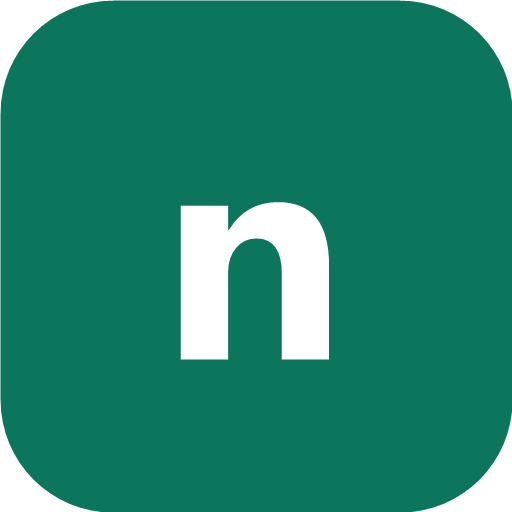
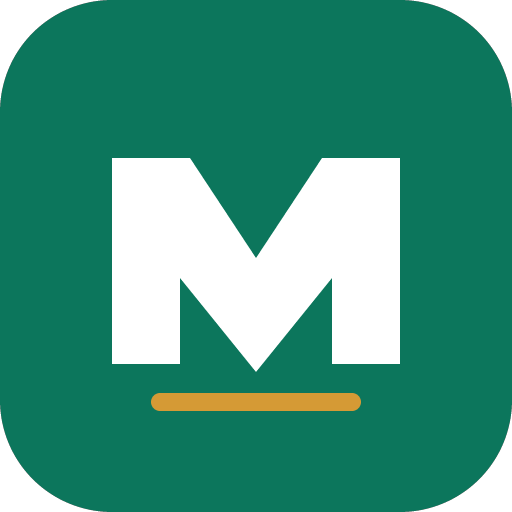
Renomme la marque en MACDIOS

diff --git a/frontend/src/contexte/LangueContext.jsx b/frontend/src/contexte/LangueContext.jsx
@@ -448,7 +448,7 @@ Object.assign(TEXTES.en, {
   "Épicerie et produits frais": "Groceries and fresh produce", "Boissons, cosmétique, électronique et textile": "Drinks, personal care, electronics and clothing", "Fermer le menu": "Close menu", "Ouvrir le menu": "Open menu",
   "Enregistrez vos ventes": "Record your sales", "Saisissez une vente en quelques secondes. Le stock se met à jour automatiquement.": "Record a sale in seconds. Stock updates automatically.", "Suivez votre stock": "Track your stock", "Voyez ce qu’il vous reste et repérez rapidement les produits à renouveler.": "See what remains and quickly spot products to restock.", "Gardez vos dettes en vue": "Keep track of debts", "Retrouvez le solde de chaque client et notez les remboursements reçus.": "View each customer’s balance and record repayments.", "Comprenez vos journées": "Understand your business", "Un tableau de bord clair résume vos ventes et les points à surveiller.": "A clear dashboard summarizes sales and items to monitor.",
   "Créez votre espace": "Set up your account", "Inscrivez votre boutique avec votre adresse email.": "Register your shop with your email address.", "Ajoutez vos produits": "Add your products", "Renseignez les articles et les quantités de votre stock.": "Enter your products and stock quantities.", "Suivez votre activité": "Track your activity", "Notez les ventes, les crédits et les paiements depuis votre téléphone.": "Record sales, credit and payments from your phone.",
-  "À qui s’adresse Nobi ?": "Who is Nobi for?", "Nobi est conçu pour les petits commerces qui veulent suivre simplement leurs ventes, leur stock et les crédits accordés aux clients.": "Nobi is designed for small businesses that want to track sales, stock and customer credit simply.", "Ai-je besoin d’un ordinateur ?": "Do I need a computer?", "Non. L’interface fonctionne sur téléphone Android et s’adapte aussi aux écrans d’ordinateur.": "No. The interface works on Android phones and adapts to computer screens too.", "Comment le stock est-il mis à jour ?": "How is stock updated?", "À chaque vente enregistrée, la quantité vendue est automatiquement retirée du stock.": "Each recorded sale automatically deducts the quantity sold from stock.", "Puis-je suivre les paiements de mes clients ?": "Can I track customer payments?", "Oui. Vous pouvez enregistrer un paiement et retrouver le solde calculé à partir des dettes et paiements du client.": "Yes. Record payments and see each balance calculated from debts and payments.",
+  "À qui s’adresse l’application ?": "Who is this app for?", "Cette application est conçue pour les petits commerces qui veulent suivre simplement leurs ventes, leur stock et les crédits accordés aux clients.": "This app is designed for small businesses that want to track sales, stock and customer credit simply.", "Ai-je besoin d’un ordinateur ?": "Do I need a computer?", "Non. L’interface fonctionne sur téléphone Android et s’adapte aussi aux écrans d’ordinateur.": "No. The interface works on Android phones and adapts to computer screens too.", "Comment le stock est-il mis à jour ?": "How is stock updated?", "À chaque vente enregistrée, la quantité vendue est automatiquement retirée du stock.": "Each recorded sale automatically deducts the quantity sold from stock.", "Puis-je suivre les paiements de mes clients ?": "Can I track customer payments?", "Oui. Vous pouvez enregistrer un paiement et retrouver le solde calculé à partir des dettes et paiements du client.": "Yes. Record payments and see each balance calculated from debts and payments.",
   "Offre commerçant": "Merchant plan", "Tarif temporairement indisponible": "Price temporarily unavailable", "Chargement du tarif…": "Loading price…", "Aperçu illustratif · données fictives": "Illustration · sample data", "Les outils essentiels sont réunis dans le même espace": "The essential tools are together in one place",
 });
 Object.assign(TEXTES.es, {
@@ -457,7 +457,7 @@ Object.assign(TEXTES.es, {
   "Épicerie et produits frais": "Comestibles y productos frescos", "Boissons, cosmétique, électronique et textile": "Bebidas, cosmética, electrónica y textil", "Fermer le menu": "Cerrar el menú", "Ouvrir le menu": "Abrir el menú",
   "Enregistrez vos ventes": "Registra tus ventas", "Saisissez une vente en quelques secondes. Le stock se met à jour automatiquement.": "Registra una venta en segundos. El inventario se actualiza automáticamente.", "Suivez votre stock": "Controla tu inventario", "Voyez ce qu’il vous reste et repérez rapidement les produits à renouveler.": "Consulta lo que queda y detecta los productos que debes reponer.", "Gardez vos dettes en vue": "Controla las deudas", "Retrouvez le solde de chaque client et notez les remboursements reçus.": "Consulta el saldo de cada cliente y registra los pagos recibidos.", "Comprenez vos journées": "Comprende tu actividad", "Un tableau de bord clair résume vos ventes et les points à surveiller.": "Un panel claro resume tus ventas y los aspectos que debes vigilar.",
   "Créez votre espace": "Crea tu espacio", "Inscrivez votre boutique avec votre adresse email.": "Registra tu tienda con tu correo electrónico.", "Ajoutez vos produits": "Añade tus productos", "Renseignez les articles et les quantités de votre stock.": "Introduce los artículos y las cantidades de tu inventario.", "Suivez votre activité": "Controla tu actividad", "Notez les ventes, les crédits et les paiements depuis votre téléphone.": "Registra ventas, créditos y pagos desde tu teléfono.",
-  "À qui s’adresse Nobi ?": "¿Para quién es Nobi?", "Nobi est conçu pour les petits commerces qui veulent suivre simplement leurs ventes, leur stock et les crédits accordés aux clients.": "Nobi está pensado para pequeños comercios que quieren controlar ventas, inventario y créditos de clientes.", "Ai-je besoin d’un ordinateur ?": "¿Necesito un ordenador?", "Non. L’interface fonctionne sur téléphone Android et s’adapte aussi aux écrans d’ordinateur.": "No. Funciona en teléfonos Android y también se adapta a pantallas de ordenador.", "Comment le stock est-il mis à jour ?": "¿Cómo se actualiza el inventario?", "À chaque vente enregistrée, la quantité vendue est automatiquement retirée du stock.": "Cada venta registrada descuenta automáticamente las unidades vendidas.", "Puis-je suivre les paiements de mes clients ?": "¿Puedo controlar los pagos de mis clientes?", "Oui. Vous pouvez enregistrer un paiement et retrouver le solde calculé à partir des dettes et paiements du client.": "Sí. Puedes registrar pagos y consultar el saldo calculado a partir de las deudas y los pagos.",
+  "À qui s’adresse l’application ?": "¿Para quién es esta aplicación?", "Cette application est conçue pour les petits commerces qui veulent suivre simplement leurs ventes, leur stock et les crédits accordés aux clients.": "Esta aplicación está pensada para pequeños comercios que quieren controlar ventas, inventario y créditos de clientes.", "Ai-je besoin d’un ordinateur ?": "¿Necesito un ordenador?", "Non. L’interface fonctionne sur téléphone Android et s’adapte aussi aux écrans d’ordinateur.": "No. Funciona en teléfonos Android y también se adapta a pantallas de ordenador.", "Comment le stock est-il mis à jour ?": "¿Cómo se actualiza el inventario?", "À chaque vente enregistrée, la quantité vendue est automatiquement retirée du stock.": "Cada venta registrada descuenta automáticamente las unidades vendidas.", "Puis-je suivre les paiements de mes clients ?": "¿Puedo controlar los pagos de mis clientes?", "Oui. Vous pouvez enregistrer un paiement et retrouver le solde calculé à partir des dettes et paiements du client.": "Sí. Puedes registrar pagos y consultar el saldo calculado a partir de las deudas y los pagos.",
   "Offre commerçant": "Plan para comercios", "Tarif temporairement indisponible": "Precio temporalmente no disponible", "Chargement du tarif…": "Cargando precio…", "Les outils essentiels sont réunis dans le même espace": "Las herramientas esenciales están reunidas en un solo espacio",
 });
 Object.assign(TEXTES.pt, {
@@ -466,7 +466,7 @@ Object.assign(TEXTES.pt, {
   "Épicerie et produits frais": "Mercearia e produtos frescos", "Boissons, cosmétique, électronique et textile": "Bebidas, cosméticos, eletrônicos e têxteis", "Fermer le menu": "Fechar o menu", "Ouvrir le menu": "Abrir o menu",
   "Enregistrez vos ventes": "Registe as suas vendas", "Saisissez une vente en quelques secondes. Le stock se met à jour automatiquement.": "Registe uma venda em segundos. O stock é atualizado automaticamente.", "Suivez votre stock": "Acompanhe o stock", "Voyez ce qu’il vous reste et repérez rapidement les produits à renouveler.": "Veja o que resta e identifique rapidamente os produtos a repor.", "Gardez vos dettes en vue": "Acompanhe as dívidas", "Retrouvez le solde de chaque client et notez les remboursements reçus.": "Consulte o saldo de cada cliente e registe os pagamentos recebidos.", "Comprenez vos journées": "Compreenda a sua atividade", "Un tableau de bord clair résume vos ventes et les points à surveiller.": "Um painel claro resume as vendas e os pontos a acompanhar.",
   "Créez votre espace": "Crie o seu espaço", "Inscrivez votre boutique avec votre adresse email.": "Registe a sua loja com o seu email.", "Ajoutez vos produits": "Adicione os seus produtos", "Renseignez les articles et les quantités de votre stock.": "Indique os artigos e as quantidades em stock.", "Suivez votre activité": "Acompanhe a sua atividade", "Notez les ventes, les crédits et les paiements depuis votre téléphone.": "Registe vendas, créditos e pagamentos no telemóvel.",
-  "À qui s’adresse Nobi ?": "Para quem é a Nobi?", "Nobi est conçu pour les petits commerces qui veulent suivre simplement leurs ventes, leur stock et les crédits accordés aux clients.": "A Nobi foi criada para pequenos comerciantes acompanharem vendas, stock e crédito a clientes.", "Ai-je besoin d’un ordinateur ?": "Preciso de um computador?", "Non. L’interface fonctionne sur téléphone Android et s’adapte aussi aux écrans d’ordinateur.": "Não. Funciona em telemóveis Android e também se adapta a computadores.", "Comment le stock est-il mis à jour ?": "Como o stock é atualizado?", "À chaque vente enregistrée, la quantité vendue est automatiquement retirée du stock.": "Cada venda registada desconta automaticamente a quantidade vendida do stock.", "Puis-je suivre les paiements de mes clients ?": "Posso acompanhar os pagamentos dos clientes?", "Oui. Vous pouvez enregistrer un paiement et retrouver le solde calculé à partir des dettes et paiements du client.": "Sim. Pode registar pagamentos e consultar o saldo calculado a partir das dívidas e pagamentos.",
+  "À qui s’adresse l’application ?": "Para quem é esta aplicação?", "Cette application est conçue pour les petits commerces qui veulent suivre simplement leurs ventes, leur stock et les crédits accordés aux clients.": "Esta aplicação foi criada para pequenos comerciantes acompanharem vendas, stock e crédito a clientes.", "Ai-je besoin d’un ordinateur ?": "Preciso de um computador?", "Non. L’interface fonctionne sur téléphone Android et s’adapte aussi aux écrans d’ordinateur.": "Não. Funciona em telemóveis Android e também se adapta a computadores.", "Comment le stock est-il mis à jour ?": "Como o stock é atualizado?", "À chaque vente enregistrée, la quantité vendue est automatiquement retirée du stock.": "Cada venda registada desconta automaticamente a quantidade vendida do stock.", "Puis-je suivre les paiements de mes clients ?": "Posso acompanhar os pagamentos dos clientes?", "Oui. Vous pouvez enregistrer un paiement et retrouver le solde calculé à partir des dettes et paiements du client.": "Sim. Pode registar pagamentos e consultar o saldo calculado a partir das dívidas e pagamentos.",
   "Offre commerçant": "Plano para comerciantes", "Tarif temporairement indisponible": "Preço temporariamente indisponível", "Chargement du tarif…": "A carregar o preço…", "Les outils essentiels sont réunis dans le même espace": "As ferramentas essenciais estão reunidas no mesmo espaço",
 });
 Object.assign(TEXTES.ar, {
@@ -475,7 +475,7 @@ Object.assign(TEXTES.ar, {
   "Épicerie et produits frais": "المواد الغذائية والمنتجات الطازجة", "Boissons, cosmétique, électronique et textile": "المشروبات والتجميل والإلكترونيات والمنسوجات", "Fermer le menu": "إغلاق القائمة", "Ouvrir le menu": "فتح القائمة",
   "Enregistrez vos ventes": "سجّل مبيعاتك", "Saisissez une vente en quelques secondes. Le stock se met à jour automatiquement.": "سجّل عملية بيع في ثوانٍ، ويتم تحديث المخزون تلقائيًا.", "Suivez votre stock": "تابع مخزونك", "Voyez ce qu’il vous reste et repérez rapidement les produits à renouveler.": "اطّلع على الكميات المتبقية وحدد المنتجات التي تحتاج إلى إعادة التزويد.", "Gardez vos dettes en vue": "تابع الديون", "Retrouvez le solde de chaque client et notez les remboursements reçus.": "اطّلع على رصيد كل عميل وسجّل المبالغ المسددة.", "Comprenez vos journées": "افهم نشاطك اليومي", "Un tableau de bord clair résume vos ventes et les points à surveiller.": "تلخص لوحة واضحة مبيعاتك والنقاط التي تحتاج إلى متابعة.",
   "Créez votre espace": "أنشئ حسابك", "Inscrivez votre boutique avec votre adresse email.": "سجّل متجرك باستخدام بريدك الإلكتروني.", "Ajoutez vos produits": "أضف منتجاتك", "Renseignez les articles et les quantités de votre stock.": "أدخل المنتجات والكميات المتوفرة في المخزون.", "Suivez votre activité": "تابع نشاطك", "Notez les ventes, les crédits et les paiements depuis votre téléphone.": "سجّل المبيعات والديون والمدفوعات من هاتفك.",
-  "À qui s’adresse Nobi ?": "لمن صُممت نوبي؟", "Nobi est conçu pour les petits commerces qui veulent suivre simplement leurs ventes, leur stock et les crédits accordés aux clients.": "صُممت نوبي للمتاجر الصغيرة التي تريد متابعة المبيعات والمخزون وديون العملاء بسهولة.", "Ai-je besoin d’un ordinateur ?": "هل أحتاج إلى حاسوب؟", "Non. L’interface fonctionne sur téléphone Android et s’adapte aussi aux écrans d’ordinateur.": "لا. تعمل الواجهة على هواتف أندرويد وتناسب شاشات الحاسوب أيضًا.", "Comment le stock est-il mis à jour ?": "كيف يتم تحديث المخزون؟", "À chaque vente enregistrée, la quantité vendue est automatiquement retirée du stock.": "يتم خصم الكمية المباعة تلقائيًا من المخزون عند تسجيل البيع.", "Puis-je suivre les paiements de mes clients ?": "هل يمكنني متابعة مدفوعات العملاء؟", "Oui. Vous pouvez enregistrer un paiement et retrouver le solde calculé à partir des dettes et paiements du client.": "نعم. يمكنك تسجيل المدفوعات والاطلاع على الرصيد المحسوب من الديون والمدفوعات.",
+  "À qui s’adresse l’application ?": "لمن صُمم هذا التطبيق؟", "Cette application est conçue pour les petits commerces qui veulent suivre simplement leurs ventes, leur stock et les crédits accordés aux clients.": "صُمم هذا التطبيق للمتاجر الصغيرة التي تريد متابعة المبيعات والمخزون وديون العملاء بسهولة.", "Ai-je besoin d’un ordinateur ?": "هل أحتاج إلى حاسوب؟", "Non. L’interface fonctionne sur téléphone Android et s’adapte aussi aux écrans d’ordinateur.": "لا. تعمل الواجهة على هواتف أندرويد وتناسب شاشات الحاسوب أيضًا.", "Comment le stock est-il mis à jour ?": "كيف يتم تحديث المخزون؟", "À chaque vente enregistrée, la quantité vendue est automatiquement retirée du stock.": "يتم خصم الكمية المباعة تلقائيًا من المخزون عند تسجيل البيع.", "Puis-je suivre les paiements de mes clients ?": "هل يمكنني متابعة مدفوعات العملاء؟", "Oui. Vous pouvez enregistrer un paiement et retrouver le solde calculé à partir des dettes et paiements du client.": "نعم. يمكنك تسجيل المدفوعات والاطلاع على الرصيد المحسوب من الديون والمدفوعات.",
   "Offre commerçant": "خطة التاجر", "Tarif temporairement indisponible": "السعر غير متاح مؤقتًا", "Chargement du tarif…": "جارٍ تحميل السعر…", "Les outils essentiels sont réunis dans le même espace": "تجتمع الأدوات الأساسية في مساحة واحدة",
 });
 
@@ -503,13 +503,13 @@ const TRADUCTIONS_ECRANS = [
   ["Le solde reflète les dettes moins les paiements enregistrés.", "The balance is debts minus recorded payments.", "El saldo es el total de deudas menos los pagos registrados.", "O saldo corresponde às dívidas menos os pagamentos registados.", "الرصيد هو مجموع الديون ناقص المدفوعات المسجلة."], ["Tout votre commerce à portée de main.", "Your whole business at your fingertips.", "Todo tu negocio al alcance de la mano.", "Todo o seu negócio à distância de um toque.", "نشاطك التجاري كله بين يديك."],
   ["Gardez vos ventes, votre stock et vos comptes clients bien organisés, même quand la journée s’accélère.", "Keep sales, stock and customer accounts organized, even on your busiest days.", "Organiza ventas, inventario y cuentas de clientes, incluso en los días más ajetreados.", "Mantenha as vendas, o stock e as contas de clientes organizados, mesmo nos dias mais corridos.", "نظّم المبيعات والمخزون وحسابات العملاء حتى في أكثر الأيام ازدحامًا."],
   ["Simple à utiliser sur téléphone", "Easy to use on a phone", "Fácil de usar en el teléfono", "Fácil de usar no telemóvel", "سهل الاستخدام على الهاتف"], ["Vos données restent dans votre espace", "Your data stays in your account", "Tus datos permanecen en tu espacio", "Os seus dados permanecem na sua área", "تبقى بياناتك في مساحتك الخاصة"], ["Un aperçu clair de votre activité", "A clear overview of your business", "Una visión clara de tu actividad", "Uma visão clara da sua atividade", "نظرة واضحة على نشاطك"],
-  ["Ravi de vous revoir", "Welcome back", "Nos alegra verte de nuevo", "É bom ter você de volta", "سعداء بعودتك"], ["Vous débutez ?", "New to Nobi?", "¿Acabas de llegar?", "Está a começar?", "هل أنت جديد هنا؟"], ["Votre commerce, en confiance", "Your business, in good hands", "Tu negocio, con confianza", "O seu negócio, com confiança", "نشاطك التجاري في أيدٍ موثوقة"],
+  ["Ravi de vous revoir", "Welcome back", "Nos alegra verte de nuevo", "É bom ter você de volta", "سعداء بعودتك"], ["Vous débutez ?", "New here?", "¿Acabas de llegar?", "Está a começar?", "هل أنت جديد هنا؟"], ["Votre commerce, en confiance", "Your business, in good hands", "Tu negocio, con confianza", "O seu negócio, com confiança", "نشاطك التجاري في أيدٍ موثوقة"],
   ["Tout votre commerce à portée de main.", "Your whole business at your fingertips.", "Todo tu negocio al alcance de la mano.", "Todo o seu negócio à distância de um toque.", "نشاطك التجاري كله بين يديك."], ["Votre espace professionnel", "Your business workspace", "Tu espacio profesional", "O seu espaço profissional", "مساحتك المهنية"], ["Interface pensée pour le mobile", "Designed for mobile", "Interfaz diseñada para móviles", "Interface pensada para telemóveis", "واجهة مصممة للهاتف"],
   ["Vos produits et vos clients au même endroit", "Products and customers in one place", "Tus productos y clientes en un solo lugar", "Os seus produtos e clientes num só lugar", "منتجاتك وعملاؤك في مكان واحد"], ["Votre espace professionnel", "Your business workspace", "Tu espacio profesional", "O seu espaço profissional", "مساحتك المهنية"],
   ["Un meilleur suivi, dès le premier jour.", "Better tracking from day one.", "Un mejor control desde el primer día.", "Mais acompanhamento desde o primeiro dia.", "متابعة أفضل منذ اليوم الأول."], ["Créez votre espace et rassemblez les informations utiles à la gestion de votre boutique.", "Set up your account and bring together the information you need to manage your shop.", "Crea tu espacio y reúne la información necesaria para gestionar tu tienda.", "Crie o seu espaço e reúna as informações necessárias para gerir a sua loja.", "أنشئ مساحتك واجمع المعلومات اللازمة لإدارة متجرك."],
   ["Vous avez déjà un compte ?", "Already have an account?", "¿Ya tienes una cuenta?", "Já tem uma conta?", "هل لديك حساب بالفعل؟"], ["Gérez le nom et les coordonnées affichés dans votre espace et sur vos documents PDF.", "Manage the name and contact details shown in your workspace and PDF documents.", "Gestiona el nombre y los datos de contacto que aparecen en tu espacio y en los PDF.", "Gira o nome e os contactos apresentados na sua área e nos documentos PDF.", "أدر الاسم وبيانات الاتصال التي تظهر في مساحتك ومستندات PDF."],
   ["Cette action efface votre compte, vos données métier et votre historique d'activité. Elle est définitive.", "This permanently deletes your account, business data and activity history.", "Esta acción elimina definitivamente tu cuenta, los datos del negocio y el historial de actividad.", "Esta ação elimina permanentemente a conta, os dados comerciais e o histórico de atividade.", "سيؤدي هذا الإجراء إلى حذف حسابك وبيانات النشاط وسجل العمليات نهائيًا."],
-  ["Une question sur Nobi, ou simplement besoin d’aide ? Écrivez-nous, nous vous répondrons dès que possible.", "A question about Nobi or need help? Write to us and we’ll reply as soon as possible.", "¿Tienes una pregunta sobre Nobi o necesitas ayuda? Escríbenos y te responderemos lo antes posible.", "Tem uma pergunta sobre a Nobi ou precisa de ajuda? Escreva-nos e responderemos assim que possível.", "هل لديك سؤال عن نوبي أو تحتاج إلى مساعدة؟ راسلنا وسنرد عليك في أقرب وقت."],
+  ["Une question ? Écrivez-nous, nous vous répondrons.", "A question about the app or need help? Write to us and we’ll reply as soon as possible.", "¿Tienes una pregunta sobre la aplicación o necesitas ayuda? Escríbenos y te responderemos lo antes posible.", "Tem uma pergunta sobre a aplicação ou precisa de ajuda? Escreva-nos e responderemos assim que possível.", "هل لديك سؤال عن التطبيق أو تحتاج إلى مساعدة؟ راسلنا وسنرد عليك في أقرب وقت."],
   ["Envoyer le message", "Send message", "Enviar mensaje", "Enviar mensagem", "إرسال الرسالة"], ["Vous pouvez aussi nous écrire directement par email ou WhatsApp.", "You can also contact us directly by email or WhatsApp.", "También puedes escribirnos directamente por correo o WhatsApp.", "Também pode contactar-nos diretamente por email ou WhatsApp.", "يمكنك مراسلتنا مباشرة عبر البريد الإلكتروني أو واتساب."],
   ["Connexion administrateur", "Admin sign in", "Acceso de administración", "Acesso de administração", "تسجيل دخول الإدارة"], ["Accès réservé aux comptes d’administration autorisés.", "Access is restricted to authorized admin accounts.", "Acceso reservado a las cuentas de administración autorizadas.", "Acesso reservado a contas de administração autorizadas.", "الدخول مخصص لحسابات الإدارة المصرح بها."],
   ["De Cotonou à Montréal, de Dakar à Paris : gérez ventes, stock et crédits clients dans un outil simple, accessible depuis votre téléphone. Choisissez votre pays et votre indicatif à l’inscription.", "From Cotonou to Montreal, Dakar to Paris: manage sales, stock and customer credit in a simple tool on your phone. Choose your country and calling code when you sign up.", "De Cotonú a Montreal, de Dakar a París: controla ventas, inventario y crédito de clientes desde tu teléfono. Elige tu país y prefijo al registrarte.", "De Cotonou a Montreal, de Dakar a Paris: acompanhe vendas, stock e crédito a clientes no telemóvel. Escolha o seu país e indicativo ao registar-se.", "من كوتونو إلى مونتريال ومن داكار إلى باريس: تابع المبيعات والمخزون وديون العملاء عبر هاتفك. اختر بلدك ورمز الاتصال عند التسجيل."],
@@ -565,7 +565,7 @@ const TRADUCTIONS_ECRANS = [
   ["Vos ventes enregistrées apparaîtront ici. Vous pouvez en saisir une dès maintenant.", "Your recorded sales will appear here. You can record one now.", "Tus ventas registradas aparecerán aquí. Puedes registrar una ahora.", "As vendas registadas aparecerão aqui. Pode registar uma agora.", "ستظهر مبيعاتك المسجلة هنا. يمكنك تسجيل عملية بيع الآن."], ["Le prix enregistré pour cette vente est celui du produit au moment de l’achat. Le stock diminue dès la confirmation.", "The recorded sale uses the product price at the time of purchase. Stock decreases as soon as you confirm.", "La venta usa el precio del producto en el momento de la compra. El inventario disminuye al confirmar.", "A venda utiliza o preço do produto no momento da compra. O stock diminui após a confirmação.", "يُحتسب البيع بسعر المنتج وقت الشراء. وينخفض المخزون فور التأكيد."],
   ["Modèle de travail sans date d’entrée en vigueur. Les informations de l’entité et les obligations applicables doivent être confirmées avant publication.", "Draft template with no effective date. Confirm the organization details and applicable obligations before publication.", "Modelo de trabajo sin fecha de entrada en vigor. Confirma los datos de la entidad y las obligaciones aplicables antes de publicarlo.", "Modelo de trabalho sem data de entrada em vigor. Confirme os dados da entidade e as obrigações aplicáveis antes da publicação.", "مسودة دون تاريخ سريان. يجب تأكيد بيانات الجهة والالتزامات المطبقة قبل النشر."], ["Ventes enregistrées, du lundi au dimanche", "Sales recorded, Monday through Sunday", "Ventas registradas, de lunes a domingo", "Vendas registadas, de segunda a domingo", "المبيعات المسجلة من الاثنين إلى الأحد"],
   ["Vérification en cours…", "Checking…", "Verificando…", "A verificar…", "جارٍ التحقق…"], ["Document authentique, généré le", "Authentic document, generated on", "Documento auténtico, generado el", "Documento autêntico, gerado em", "مستند أصلي، تم إنشاؤه في"], ["Code invalide", "Invalid code", "Código no válido", "Código inválido", "رمز غير صالح"],
-  ["NOBI · ADMINISTRATION", "NOBI · ADMINISTRATION", "NOBI · ADMINISTRACIÓN", "NOBI · ADMINISTRAÇÃO", "نوبي · الإدارة"], ["Indicateurs clés de l’activité sur toute la plateforme.", "Key activity indicators across the platform.", "Indicadores clave de actividad en toda la plataforma.", "Indicadores principais da atividade em toda a plataforma.", "مؤشرات النشاط الرئيسية على مستوى المنصة."],
+  ["ADMINISTRATION", "ADMINISTRATION", "ADMINISTRACIÓN", "ADMINISTRAÇÃO", "الإدارة"], ["Indicateurs clés de l’activité sur toute la plateforme.", "Key activity indicators across the platform.", "Indicadores clave de actividad en toda la plataforma.", "Indicadores principais da atividade em toda a plataforma.", "مؤشرات النشاط الرئيسية على مستوى المنصة."],
   ["Offre d’essai gratuite", "Free trial offer", "Oferta de prueba gratuita", "Oferta de teste gratuito", "عرض التجربة المجانية"], ["Modifiez la durée de l’essai ou désactivez-le pour les nouvelles inscriptions.", "Change the trial duration or disable it for new sign-ups.", "Cambia la duración de la prueba o desactívala para los nuevos registros.", "Altere a duração do período de teste ou desative-o para novas inscrições.", "غيّر مدة الفترة التجريبية أو أوقفها للتسجيلات الجديدة."],
   ["Historique des actions et décisions enregistrées sur la plateforme.", "History of actions and decisions recorded on the platform.", "Historial de acciones y decisiones registradas en la plataforma.", "Histórico de ações e decisões registadas na plataforma.", "سجل الإجراءات والقرارات على المنصة."], ["Consultez les comptes et gérez leur accès à la plateforme.", "Review accounts and manage their access to the platform.", "Consulta las cuentas y gestiona su acceso a la plataforma.", "Consulte as contas e gira o respetivo acesso à plataforma.", "راجع الحسابات وأدر إمكانية وصولها إلى المنصة."],
   ["Paiements en attente", "Pending payments", "Pagos pendientes", "Pagamentos pendentes", "المدفوعات المعلقة"], ["Vérifiez les paiements Mobile Money avant de les valider.", "Review Mobile Money payments before approving them.", "Verifica los pagos por dinero móvil antes de aprobarlos.", "Verifique os pagamentos por dinheiro móvel antes de os aprovar.", "تحقق من مدفوعات الهاتف المحمول قبل اعتمادها."], ["Invitez des personnes et attribuez leurs permissions une par une.", "Invite people and assign permissions individually.", "Invita a otras personas y asigna sus permisos individualmente.", "Convide pessoas e atribua permissões individualmente.", "ادعُ أشخاصًا وحدد صلاحيات كل منهم على حدة."],
@@ -639,7 +639,7 @@ const TRADUCTIONS_COMMUNES = {
     "12 caractères minimum": "At least 12 characters", "Chargement du profil": "Loading profile", "Aperçu du logo de profil": "Profile logo preview",
     "Diminuer": "Decrease", "Augmenter": "Increase", "Nom ou téléphone (facultatif)": "Name or phone (optional)",
     "Ex. Riz local": "E.g. Local rice", "Archiver ce produit ?": "Archive this product?", "Montant des ventes par jour cette semaine": "Sales amount by day this week",
-    "Aperçu illustratif du tableau de bord Nobi": "Illustrative preview of the Nobi dashboard", "Graphique illustratif, données fictives": "Illustrative chart, sample data",
+    "Aperçu illustratif du tableau de bord": "Illustrative dashboard preview", "Graphique illustratif, données fictives": "Illustrative chart, sample data",
   },
   es: {
     "Le serveur rencontre un problème. Réessayez dans quelques instants.": "El servidor ha encontrado un problema. Inténtalo de nuevo dentro de unos instantes.",
@@ -684,7 +684,7 @@ const TRADUCTIONS_COMMUNES = {
     "12 caractères minimum": "Mínimo 12 caracteres", "Chargement du profil": "Cargando perfil", "Aperçu du logo de profil": "Vista previa del logotipo del perfil",
     "Diminuer": "Disminuir", "Augmenter": "Aumentar", "Nom ou téléphone (facultatif)": "Nombre o teléfono (opcional)",
     "Ex. Riz local": "Ej. Arroz local", "Archiver ce produit ?": "¿Archivar este producto?", "Montant des ventes par jour cette semaine": "Importe de ventas por día esta semana",
-    "Aperçu illustratif du tableau de bord Nobi": "Vista ilustrativa del panel de Nobi", "Graphique illustratif, données fictives": "Gráfico ilustrativo, datos ficticios",
+    "Aperçu illustratif du tableau de bord": "Vista ilustrativa del panel", "Graphique illustratif, données fictives": "Gráfico ilustrativo, datos ficticios",
   },
   pt: {
     "Le serveur rencontre un problème. Réessayez dans quelques instants.": "O servidor encontrou um problema. Tente novamente dentro de instantes.",
@@ -729,7 +729,7 @@ const TRADUCTIONS_COMMUNES = {
     "12 caractères minimum": "Mínimo de 12 caracteres", "Chargement du profil": "A carregar perfil", "Aperçu du logo de profil": "Pré-visualização do logótipo do perfil",
     "Diminuer": "Diminuir", "Augmenter": "Aumentar", "Nom ou téléphone (facultatif)": "Nome ou telefone (opcional)",
     "Ex. Riz local": "Ex.: Arroz local", "Archiver ce produit ?": "Arquivar este produto?", "Montant des ventes par jour cette semaine": "Valor das vendas por dia nesta semana",
-    "Aperçu illustratif du tableau de bord Nobi": "Pré-visualização ilustrativa do painel Nobi", "Graphique illustratif, données fictives": "Gráfico ilustrativo, dados fictícios",
+    "Aperçu illustratif du tableau de bord": "Pré-visualização ilustrativa do painel", "Graphique illustratif, données fictives": "Gráfico ilustrativo, dados fictícios",
   },
   ar: {
     "Le serveur rencontre un problème. Réessayez dans quelques instants.": "حدثت مشكلة في الخادم. يرجى المحاولة مرة أخرى بعد قليل.",
@@ -774,7 +774,7 @@ const TRADUCTIONS_COMMUNES = {
     "12 caractères minimum": "١٢ حرفًا على الأقل", "Chargement du profil": "جارٍ تحميل الملف الشخصي", "Aperçu du logo de profil": "معاينة شعار الملف الشخصي",
     "Diminuer": "تقليل", "Augmenter": "زيادة", "Nom ou téléphone (facultatif)": "الاسم أو الهاتف (اختياري)",
     "Ex. Riz local": "مثال: أرز محلي", "Archiver ce produit ?": "أرشفة هذا المنتج؟", "Montant des ventes par jour cette semaine": "قيمة المبيعات اليومية لهذا الأسبوع",
-    "Aperçu illustratif du tableau de bord Nobi": "معاينة توضيحية للوحة نوبي", "Graphique illustratif, données fictives": "رسم توضيحي، بيانات افتراضية",
+    "Aperçu illustratif du tableau de bord": "معاينة توضيحية للوحة التحكم", "Graphique illustratif, données fictives": "رسم توضيحي، بيانات افتراضية",
   },
 };
 for (const langue of ["en", "es", "pt", "ar"]) Object.assign(TEXTES[langue], TRADUCTIONS_COMMUNES[langue]);

diff --git a/frontend/src/admin/AdminLayout.jsx b/frontend/src/admin/AdminLayout.jsx
@@ -2,6 +2,7 @@ import { NavLink, Outlet, useNavigate } from "react-router-dom";
 import { aPermission, useAdminAuth } from "./AdminAuthContext";
 import FooterApplication from "../composants/FooterApplication";
 import AvatarProfil from "../composants/AvatarProfil";
+import { branding } from "../config/branding";
 import { SelecteurLangue, TexteLocalise, traduire, useLangue } from "../contexte/LangueContext";
 
 
@@ -24,7 +25,7 @@ export default function AdminLayout() {
 
   return <div className="admin-shell">
     <aside className="admin-sidebar">
-      <div className="admin-brand"><span className="admin-brand-mark">{<TexteLocalise phrase={"N"} />}</span><span>{<TexteLocalise phrase={"Nobi"} />}<small>{<TexteLocalise phrase={"BACK-OFFICE"} />}</small></span></div>
+      <div className="admin-brand"><span className="admin-brand-mark">{branding.logoMark}</span><span>{branding.appName}<small>{<TexteLocalise phrase={"BACK-OFFICE"} />}</small></span></div>
       <div className="admin-menu-label">{<TexteLocalise phrase={"GESTION"} />}</div>
       <nav className="admin-nav">{visibles.map(([to, label, icon]) => <NavLink key={to} to={to} end={to === "/admin"} className={({ isActive }) => `admin-nav-link${isActive ? " active" : ""}`}><span className="admin-nav-icon">{icon}</span>{traduire(label, langue)}</NavLink>)}</nav>
       <div className="admin-sidebar-footer"><div className="admin-profile"><AvatarProfil to="/admin/profil" compact/><div><strong>{administrateur?.nom || "Administrateur"}</strong><small>{administrateur?.super_admin ? "Super admin" : "Sous-admin"}</small></div></div><button onClick={quitter} className="admin-logout">{<TexteLocalise phrase={"Déconnexion"} />}</button></div>

diff --git a/frontend/vite.config.js b/frontend/vite.config.js
@@ -1,7 +1,31 @@
 import { defineConfig } from "vite";
 import react from "@vitejs/plugin-react";
-import { mkdirSync, writeFileSync } from "node:fs";
+import { mkdirSync, readFileSync, writeFileSync } from "node:fs";
 import { resolve } from "node:path";
+import { branding } from "./src/config/branding.js";
+
+const rendreManifeste = (contenu) => contenu
+  .replaceAll("__APP_NAME__", branding.appName)
+  .replaceAll("__APP_SHORT_NAME__", branding.appShortName);
+
+const manifesteApplication = {
+  name: "manifest-application",
+  transformIndexHtml(html) {
+    return html.replaceAll("__APP_NAME__", branding.appName);
+  },
+  configureServer(server) {
+    server.middlewares.use((request, response, next) => {
+      if (request.url?.split("?")[0] !== "/manifest.webmanifest") return next();
+      const chemin = resolve(process.cwd(), "public", "manifest.webmanifest");
+      response.setHeader("Content-Type", "application/manifest+json; charset=utf-8");
+      response.end(rendreManifeste(readFileSync(chemin, "utf8")));
+    });
+  },
+  closeBundle() {
+    const chemin = resolve(process.cwd(), "dist", "manifest.webmanifest");
+    writeFileSync(chemin, rendreManifeste(readFileSync(chemin, "utf8")), "utf8");
+  },
+};
 
 // Ce manifeste permet à la CI de vérifier le SHA réellement servi par Railway.
 const versionDeploiement = {
@@ -18,4 +42,4 @@ const versionDeploiement = {
   },
 };
 
-export default defineConfig({ plugins: [react(), versionDeploiement] });
+export default defineConfig({ plugins: [react(), versionDeploiement, manifesteApplication] });

diff --git a/frontend/src/pages/AccueilPublique.jsx b/frontend/src/pages/AccueilPublique.jsx
@@ -27,7 +27,7 @@ const fonctionnalites = [
 ];
 
 const questions = [
-  ["À qui s’adresse Nobi ?", "Nobi est conçu pour les petits commerces qui veulent suivre simplement leurs ventes, leur stock et les crédits accordés aux clients."],
+  ["À qui s’adresse l’application ?", "Cette application est conçue pour les petits commerces qui veulent suivre simplement leurs ventes, leur stock et les crédits accordés aux clients."],
   ["Ai-je besoin d’un ordinateur ?", "Non. L’interface fonctionne sur téléphone Android et s’adapte aussi aux écrans d’ordinateur."],
   ["Comment le stock est-il mis à jour ?", "À chaque vente enregistrée, la quantité vendue est automatiquement retirée du stock."],
   ["Puis-je suivre les paiements de mes clients ?", "Oui. Vous pouvez enregistrer un paiement et retrouver le solde calculé à partir des dettes et paiements du client."],
@@ -39,7 +39,7 @@ function Marque({ clair = false }) {
 
 function ApercuApplication() {
   return (
-    <div className="hero-visual" aria-label={traduire("Aperçu illustratif du tableau de bord Nobi")}>
+    <div className="hero-visual" aria-label={traduire("Aperçu illustratif du tableau de bord")}>
       <div className="app-preview">
         <div className="preview-top"><span className="preview-brand"><span className="brand-mark">{branding.logoMark}</span>{branding.appName}</span><span className="preview-user" /></div>
         <div className="preview-content">

diff --git a/frontend/src/pages/ContactezNous.jsx b/frontend/src/pages/ContactezNous.jsx
@@ -31,7 +31,7 @@ export default function ContactezNous() {
     const objet = String(formulaire.get("objet") || "").trim() || "Demande d’information";
     const message = String(formulaire.get("message") || "").trim();
     const contenu = `Nom : ${nom}\nAdresse email : ${email}\n\n${message}`;
-    const requete = new URLSearchParams({ subject: `Nobi — ${objet}`, body: contenu });
+    const requete = new URLSearchParams({ subject: `${branding.appName} — ${objet}`, body: contenu });
 
     // Aucun endpoint de contact n’existe encore : le message est préparé dans l’application email du visiteur.
     window.location.href = `mailto:${adresseEmail}?${requete.toString()}`;
@@ -43,7 +43,7 @@ export default function ContactezNous() {
         <RetourPage />
         <span className="contact-eyebrow">{<TexteLocalise phrase={"Support"} />}</span>
         <h1>{<TexteLocalise phrase={"Contactez-nous"} />}</h1>
-        <p>{<TexteLocalise phrase={"Une question sur Nobi, ou simplement besoin d’aide ? Écrivez-nous, nous vous répondrons dès que possible."} />}</p>
+        <p>{<TexteLocalise phrase={"Une question ? Écrivez-nous, nous vous répondrons."} />}</p>
       </header>
 
       <div className="contact-layout">

diff --git a/frontend/src/admin/pages/AdminConnexion.jsx b/frontend/src/admin/pages/AdminConnexion.jsx
@@ -4,6 +4,7 @@ import { useAdminAuth } from "../AdminAuthContext";
 import { erreurAdmin } from "../adminApi";
 import { SelecteurLangue, TexteLocalise, traduire } from "../../contexte/LangueContext";
 import Icon from "../../composants/Icon";
+import { branding } from "../../config/branding";
 
 export default function AdminConnexion() {
   const { connexion, connecte } = useAdminAuth();
@@ -40,8 +41,8 @@ export default function AdminConnexion() {
       <section className="admin-login-card">
         <div className="admin-login-locale"><SelecteurLangue compact /></div>
         <div className="admin-brand admin-brand-login">
-          <span className="admin-brand-mark"><TexteLocalise phrase="N" /></span>
-          <span><TexteLocalise phrase="Nobi" /><small><TexteLocalise phrase="BACK-OFFICE" /></small></span>
+          <span className="admin-brand-mark">{branding.logoMark}</span>
+          <span>{branding.appName}<small><TexteLocalise phrase="BACK-OFFICE" /></small></span>
         </div>
         <div className="admin-login-kicker"><TexteLocalise phrase="ESPACE DE GESTION" /></div>
         <h1><TexteLocalise phrase="Connexion administrateur" /></h1>

diff --git a/frontend/src/config/branding.js b/frontend/src/config/branding.js
@@ -1,10 +1,11 @@
 // Modifiez cette configuration pour adapter le nom, les coordonnées et les liens publics.
-const whatsappNobi = "https://wa.me/2290157179683";
+const whatsappContact = "https://wa.me/2290157179683";
 
 export const branding = {
-  appName: "Nobi",
+  appName: "MACDIOS",
+  appShortName: "MACD",
   appDescription: "La gestion simple de votre commerce, depuis votre téléphone.",
-  logoMark: "n",
+  logoMark: "M",
   // Palette utilisée uniquement par la page publique.
   palette: {
     primary: "#17324D",
@@ -19,7 +20,7 @@ export const branding = {
   contact: {
     email: "cephacemacevo@gmail.com",
     telephone: "+2290157179683",
-    whatsapp: whatsappNobi,
+    whatsapp: whatsappContact,
     address: "Cotonou, Bénin",
     facebook: "",
   },
@@ -27,7 +28,7 @@ export const branding = {
   socials: {
     facebook: "",
     instagram: "",
-    whatsapp: whatsappNobi,
+    whatsapp: whatsappContact,
     linkedin: "",
     tiktok: "",
     youtube: "",

diff --git a/frontend/src/admin/AdminComponents.jsx b/frontend/src/admin/AdminComponents.jsx
@@ -1,5 +1,7 @@
 
-import { localePourLangue, TexteLocalise, traduire } from "../contexte/LangueContext";export function AdminTitre({ surtitre = "NOBI · ADMINISTRATION", titre, description, action }) {
+import { localePourLangue, TexteLocalise, traduire } from "../contexte/LangueContext";
+import { branding } from "../config/branding";
+export function AdminTitre({ surtitre = `${branding.appName} · ADMINISTRATION`, titre, description, action }) {
   return <header className="admin-page-head"><div><div className="admin-eyebrow">{traduire(surtitre)}</div><h1>{traduire(titre)}</h1>{description && <p>{traduire(description)}</p>}</div>{action && <div className="admin-head-action">{action}</div>}</header>;
 }
 

diff --git a/frontend/index.html b/frontend/index.html
@@ -14,7 +14,7 @@
     <link rel="preconnect" href="https://fonts.googleapis.com" />
     <link rel="preconnect" href="https://fonts.gstatic.com" crossorigin />
     <link href="https://fonts.googleapis.com/css2?family=Inter:wght@400;500;600;700&family=Poppins:wght@400;500;600;700&family=Sora:wght@400;500;600;700&display=swap" rel="stylesheet" />
-    <title>Nobi — Gestion de commerce</title>
+    <title>__APP_NAME__ — Gestion de commerce</title>
   </head>
   <body>
     <div id="root"></div>

diff --git a/backend/commerce/test_notifications_sms.py b/backend/commerce/test_notifications_sms.py
@@ -22,7 +22,7 @@ class ServiceSmsTests(TestCase):
         self.numero = "+22961020304"
         self.message = "Votre boutique : essai terminé le 01/10/2026."
 
-    @override_settings(SMS_SIMULATION=False, VONAGE_API_KEY="cle-test", VONAGE_API_SECRET="secret-test", VONAGE_SMS_SENDER="Nobi")
+    @override_settings(SMS_SIMULATION=False, VONAGE_API_KEY="cle-test", VONAGE_API_SECRET="secret-test", VONAGE_SMS_SENDER="MACDTEST")
     @patch("notifications.sms.urlopen")
     def test_envoi_reussi_interprete_la_reponse_vonage(self, ouvrir):
         reponse = MagicMock()
@@ -38,7 +38,7 @@ class ServiceSmsTests(TestCase):
         self.assertIn(b"to=22961020304", requete.data)
         ouvrir.assert_called_once()
 
-    @override_settings(SMS_SIMULATION=False, VONAGE_API_KEY="cle-test", VONAGE_API_SECRET="secret-test", VONAGE_SMS_SENDER="Nobi")
+    @override_settings(SMS_SIMULATION=False, VONAGE_API_KEY="cle-test", VONAGE_API_SECRET="secret-test", VONAGE_SMS_SENDER="MACDTEST")
     @patch("notifications.sms.urlopen")
     def test_echec_fournisseur_est_converti_en_erreur_sans_detail_sensible(self, ouvrir):
         reponse = MagicMock()
@@ -50,7 +50,7 @@ class ServiceSmsTests(TestCase):
         with self.assertRaisesRegex(ErreurEnvoiSms, "n'a pas accepté"):
             envoyer_sms(self.numero, self.message)
 
-    @override_settings(SMS_SIMULATION=False, VONAGE_API_KEY="cle-test", VONAGE_API_SECRET="secret-test", VONAGE_SMS_SENDER="Nobi")
+    @override_settings(SMS_SIMULATION=False, VONAGE_API_KEY="cle-test", VONAGE_API_SECRET="secret-test", VONAGE_SMS_SENDER="MACDTEST")
     @patch("notifications.sms.urlopen")
     def test_numero_invalide_est_refuse_avant_appel_fournisseur(self, ouvrir):
         with self.assertRaisesRegex(ValueError, r"\+229 suivi de 8 chiffres"):
@@ -64,7 +64,7 @@ class ServiceSmsTests(TestCase):
             envoyer_sms(self.numero, self.message)
         ouvrir.assert_not_called()
 
-    @override_settings(SMS_SIMULATION=False, VONAGE_API_KEY="cle-test", VONAGE_API_SECRET="secret-test", VONAGE_SMS_SENDER="Nobi")
+    @override_settings(SMS_SIMULATION=False, VONAGE_API_KEY="cle-test", VONAGE_API_SECRET="secret-test", VONAGE_SMS_SENDER="MACDTEST")
     @patch("notifications.sms.urlopen", side_effect=URLError("détail privé du fournisseur"))
     def test_erreur_reseau_est_convertie_en_erreur_generique(self, ouvrir):
         with self.assertRaisesRegex(ErreurEnvoiSms, "n'a pas accepté") as erreur:

diff --git a/backend/config/settings.py b/backend/config/settings.py
@@ -9,6 +9,7 @@ from decouple import Csv, config
 import dj_database_url
 from corsheaders.defaults import default_headers
 from django.core.exceptions import ImproperlyConfigured
+from commerce.branding import NOM_APPLICATION
 
 from .observabilite import filtrer_evenement_sentry
 
@@ -256,13 +257,13 @@ CSRF_COOKIE_SAMESITE = AUTH_COOKIE_SAMESITE
 SMS_SIMULATION = config("SMS_SIMULATION", default=True, cast=bool)
 VONAGE_API_KEY = config("VONAGE_API_KEY", default="")
 VONAGE_API_SECRET = config("VONAGE_API_SECRET", default="")
-VONAGE_SMS_SENDER = config("VONAGE_SMS_SENDER", default="Nobi")
+VONAGE_SMS_SENDER = config("VONAGE_SMS_SENDER", default=NOM_APPLICATION) or NOM_APPLICATION
 
 # Brevo Transactional Email : simulation activée par défaut en local.
 EMAIL_SIMULATION = config("EMAIL_SIMULATION", default=True, cast=bool)
 BREVO_API_KEY = config("BREVO_API_KEY", default="")
 BREVO_SENDER_EMAIL = config("BREVO_SENDER_EMAIL", default="")
-BREVO_SENDER_NAME = config("BREVO_SENDER_NAME", default="Nobi")
+BREVO_SENDER_NAME = config("BREVO_SENDER_NAME", default=NOM_APPLICATION) or NOM_APPLICATION
 
 REST_FRAMEWORK = {
     "DEFAULT_AUTHENTICATION_CLASSES": ["commerce.authentication.CookieSessionJWTAuthentication"],
@@ -281,7 +282,7 @@ REST_FRAMEWORK = {
     "NUM_PROXIES": 1 if EST_PRODUCTION else None,
 }
 SPECTACULAR_SETTINGS = {
-    "TITLE": "Nobi — API de gestion commerciale",
+    "TITLE": f"{NOM_APPLICATION} — API de gestion commerciale",
     "DESCRIPTION": "API REST pour gérer les ventes, le stock, les clients et les abonnements.",
     "VERSION": "1.0.0",
     "SERVE_INCLUDE_SCHEMA": False,

diff --git a/backend/commerce/views.py b/backend/commerce/views.py
@@ -40,6 +40,7 @@ from .api_docs import (
     SanteReponseSerializer, SessionReponseSerializer,
 )
 from .audit import enregistrer_evenement, suspendre_audit
+from .branding import NOM_APPLICATION
 from .idempotence import CreationIdempotenteMixin
 from .models import Abonnement, Approvisionnement, Client, ConfigurationEssai, CorrectionDette, DemandePaiementManuel, Dette, Fournisseur, JournalAudit, LigneApprovisionnement, MouvementStock, Paiement, PaiementAbonnementHistorique, Plan, Produit, Vente
 from .pagination import PaginationAudit, PaginationStandard
@@ -166,12 +167,12 @@ def inscription(request):
     )
     contenu_bienvenue = format_html(
         '<div style="font-family:Arial,sans-serif;color:#243b36;line-height:1.6">'
-        '<h1 style="color:#0c765c">Bienvenue sur Nobi</h1><p>Bonjour {},</p>'
+        '<h1 style="color:#0c765c">Bienvenue sur {}</h1><p>Bonjour {},</p>'
         '<p>{}</p><p>Bonne gestion de votre boutique !</p></div>',
-        user.nom_boutique, message_essai,
+        NOM_APPLICATION, user.nom_boutique, message_essai,
     )
     try:
-        envoyer_email(user.email, "Bienvenue sur Nobi", str(contenu_bienvenue))
+        envoyer_email(user.email, f"Bienvenue sur {NOM_APPLICATION}", str(contenu_bienvenue))
     except (ErreurEnvoiEmail, ValueError):
         # La création du compte ne dépend pas de la disponibilité du fournisseur.
         logger.warning("Échec de l'envoi de l'email de bienvenue.")
